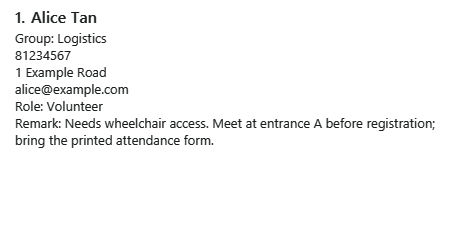
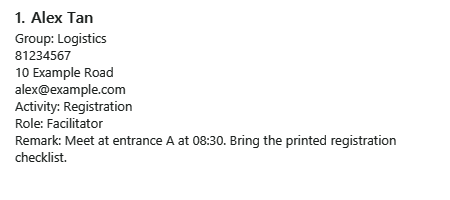
Refresh integrated candidate website screenshots
Replace stale release views with genuine JavaFX captures from the
verified integrated-master JAR. Show participant remarks and refresh
filter, unassigned and validation illustrations with synthetic data.

Keep candidate status explicit until release approval and link the
website and README to the repository's maintained image assets.

Changed region(s): [[0.0311, 0.03, 0.9644, 0.81]]

diff --git a/docs/UserGuide.md b/docs/UserGuide.md
@@ -73,12 +73,13 @@ ZoomAddress is a **desktop participant-management application for directors of l
 5. Enter `sort name` to order the current results by name. Use the indices shown **after** sorting for
    `view`, `edit`, `remark`, or `delete`. Sorting and filtering change the view, not participant fields.
 
-The screenshots in this guide use synthetic participants from the v1.4 release. They show the application content,
-not OS window decorations; fonts may differ by platform.
+The screenshots in this guide use synthetic participants from the integrated v1.5 candidate. They show real
+JavaFX application content from that packaged JAR, not OS window decorations; fonts may differ by platform.
+The candidate is not yet a published release.
 
-![Directory after list, showing participant names, displayed indices and assignments](https://github.com/AY2627S1-CS2103T-W13-2/tp/releases/download/v1.4/01-participant-directory.png)
+![Directory after list, showing four participants, displayed indices, assignments and remarks](images/Ui.png)
 
-*A `list` result: each participant card shows its current group, role and activity.*
+*A `list` result: participant cards show assignments and non-empty remarks. Chen and Devi still need groups.*
 
 <div markdown="block" class="alert alert-info">
 
@@ -103,7 +104,7 @@ not OS window decorations; fonts may differ by platform.
 * If you are using a PDF version of this document, be careful when copying and pasting commands that span multiple lines as space characters surrounding line-breaks may be omitted when copied over to the application.
 </div>
 
-![Invalid list command with extra text and a usage message; the existing participant view remains visible](https://github.com/AY2627S1-CS2103T-W13-2/tp/releases/download/v1.4/04-invalid-command.png)
+![Invalid list command with extra text and a usage message; the two unassigned participants remain visible](images/invalidCommand.png)
 
 *Invalid input such as `list extra` shows a command-specific usage message without changing the displayed list.*
 
@@ -235,9 +236,9 @@ Examples:
 * `remark 1 r/Check in at 09:00; use entrance A/B.` accepts spaces, punctuation, and an embedded slash.
 * `remark 2 r/` clears the second displayed participant's remark.
 
-![Participant card with a wrapped accessibility remark below the role](images/remarkCard.png)
+![Participant card with a wrapped arrival and registration remark below the role](images/remarkCard.png)
 
-*A JavaFX participant-card capture from the v1.5 feature build, using synthetic data. The note wraps within
+*A JavaFX participant-card capture from the integrated v1.5 candidate, using synthetic data. The note wraps within
 the card; this component image is not a full application-window screenshot.*
 
 Invalid examples:
@@ -409,7 +410,7 @@ Examples:
 * `filter-all g/"Team A/B" r/Facilitator` matches the literal group label `Team A/B` and role Facilitator.
 * `filter-all g/"Team r/Lead" r/"Say \"Hi\" \\ Lead"` matches group `Team r/Lead` and role `Say "Hi" \ Lead`.
 
-![Combined filter result with two participants matching Logistics and Facilitator](https://github.com/AY2627S1-CS2103T-W13-2/tp/releases/download/v1.4/02-combined-filter.png)
+![Combined filter result with Alex and Beth matching Logistics and Facilitator](images/combinedFilter.png)
 
 *A `filter-all g/Logistics r/Facilitator` result: only participants satisfying both criteria remain visible.*
 
@@ -457,7 +458,7 @@ Examples:
 * `unassigned a/` shows everyone without an activity. Use the resulting displayed index for `view`, `assign-activity`,
   `edit`, or other index-based commands.
 
-![Unassigned group query showing two participants without a group](https://github.com/AY2627S1-CS2103T-W13-2/tp/releases/download/v1.4/03-unassigned-groups.png)
+![Unassigned group query showing Chen and Devi without a group](images/unassignedGroups.png)
 
 *An `unassigned g/` result: a participant may still have a role or activity while lacking a group.*
 
@@ -491,7 +492,7 @@ Examples:
   each participant's group. The screenshot illustrates the layout, not this specific
   search result.
 
-![Current participant-card layout showing group, role, and activity fields](images/participantDirectory-v1.4.1.png)
+![Current directory showing participant assignments and non-empty remarks](images/Ui.png)
 
 ### Locating participants by contact information: `find-contact`
 

diff --git a/docs/index.md b/docs/index.md
@@ -5,15 +5,19 @@ title: ZoomAddress
 
 [![CI Status](https://github.com/AY2627S1-CS2103T-W13-2/tp/actions/workflows/gradle.yml/badge.svg)](https://github.com/AY2627S1-CS2103T-W13-2/tp/actions/workflows/gradle.yml)
 
-![ZoomAddress participant directory showing group, role and activity assignments](https://github.com/AY2627S1-CS2103T-W13-2/tp/releases/download/v1.4/01-participant-directory.png)
+![ZoomAddress directory with four participants, assignments and event-day remarks](images/Ui.png)
 
-*Actual v1.4 JavaFX view with synthetic participant data; OS window decorations are omitted.*
+*Integrated v1.5 candidate with synthetic participant data, captured from the packaged JavaFX application.
+OS window decorations are omitted. The candidate is not yet a published release.*
 
 **ZoomAddress is a desktop participant-management application for directors of large-scale computing events.** It
-keeps participant information and assignments to groups, roles, and activities in one local directory. Its
+keeps participant information, event-day remarks, and assignments to groups, roles, and activities in one local directory. Its
 keyboard-driven command interface helps experienced users retrieve and update records quickly.
 
 * To start using ZoomAddress, see the [_Quick Start_ section of the **User Guide**](UserGuide.html#quick-start).
+  Check the [published releases](https://github.com/AY2627S1-CS2103T-W13-2/tp/releases) for available downloads;
+  the candidate shown here includes features not present in v1.4.1.
+* To record notes such as arrival instructions, see [**Participant remarks**](UserGuide.html#recording-or-clearing-a-participant-remark-remark).
 * To see how to find incomplete allocations and combine filters, see the
   [_Typical event-day workflow_](UserGuide.html#typical-event-day-workflow).
 * To contribute to ZoomAddress, see the [**Developer Guide**](DeveloperGuide.html).

diff --git a/README.md b/README.md
@@ -2,9 +2,11 @@
 
 [![CI Status](https://github.com/AY2627S1-CS2103T-W13-2/tp/actions/workflows/gradle.yml/badge.svg)](https://github.com/AY2627S1-CS2103T-W13-2/tp/actions/workflows/gradle.yml)
 
-![ZoomAddress participant directory with group, role and activity assignments](https://github.com/AY2627S1-CS2103T-W13-2/tp/releases/download/v1.4/01-participant-directory.png)
+![ZoomAddress directory with four participants, assignments and event-day remarks](docs/images/Ui.png)
 
-*Actual v1.4 JavaFX view with synthetic participant data; OS window decorations are omitted.*
+*Integrated v1.5 candidate captured from the packaged JavaFX application with synthetic data; OS window
+decorations are omitted. This candidate is not yet published. See the
+[releases](https://github.com/AY2627S1-CS2103T-W13-2/tp/releases) for available downloads.*
 
 ZoomAddress is a desktop participant-management application for directors of large-scale computing events, such as
 orientation camps. It helps event directors keep track of participants and their relevant information, making it
@@ -18,6 +20,7 @@ remote service.
 * Create, view, find, and remove participant records.
 * Sort the currently displayed participants by name without changing stored records.
 * Assign participants to groups, roles, and activities.
+* Record, replace, or clear participant remarks and read them on participant cards.
 * Retrieve participant details and assignment information quickly.
 * Save and load participant data locally and automatically.
 * Perform common operations efficiently using typed commands.
